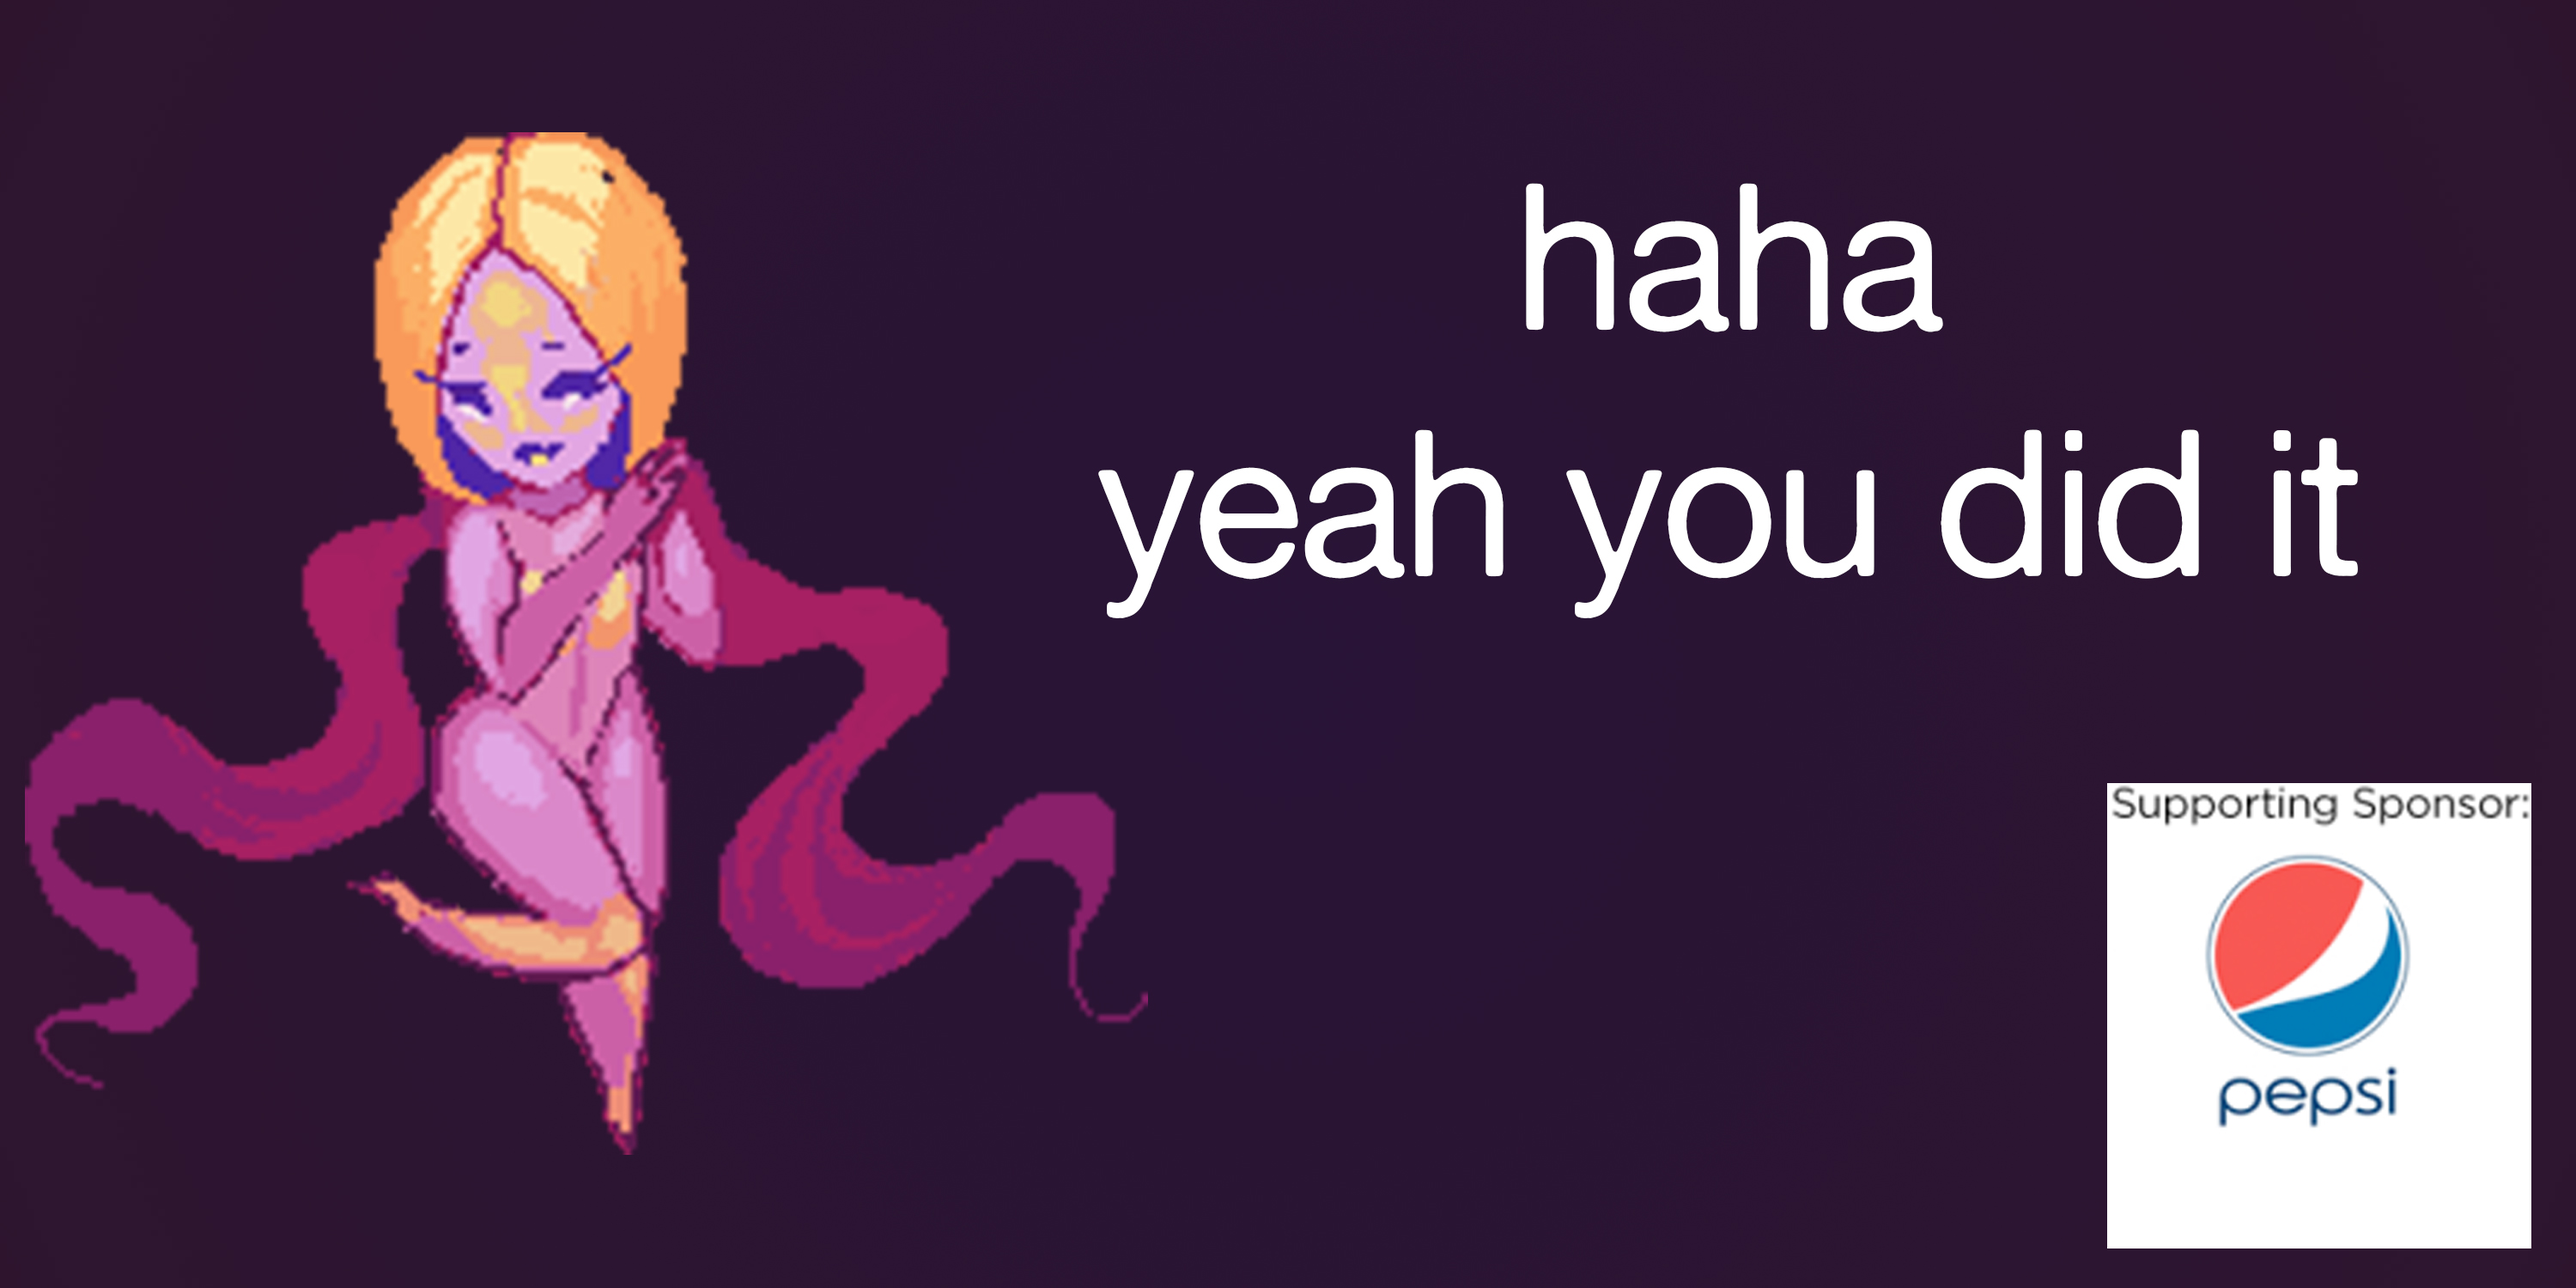
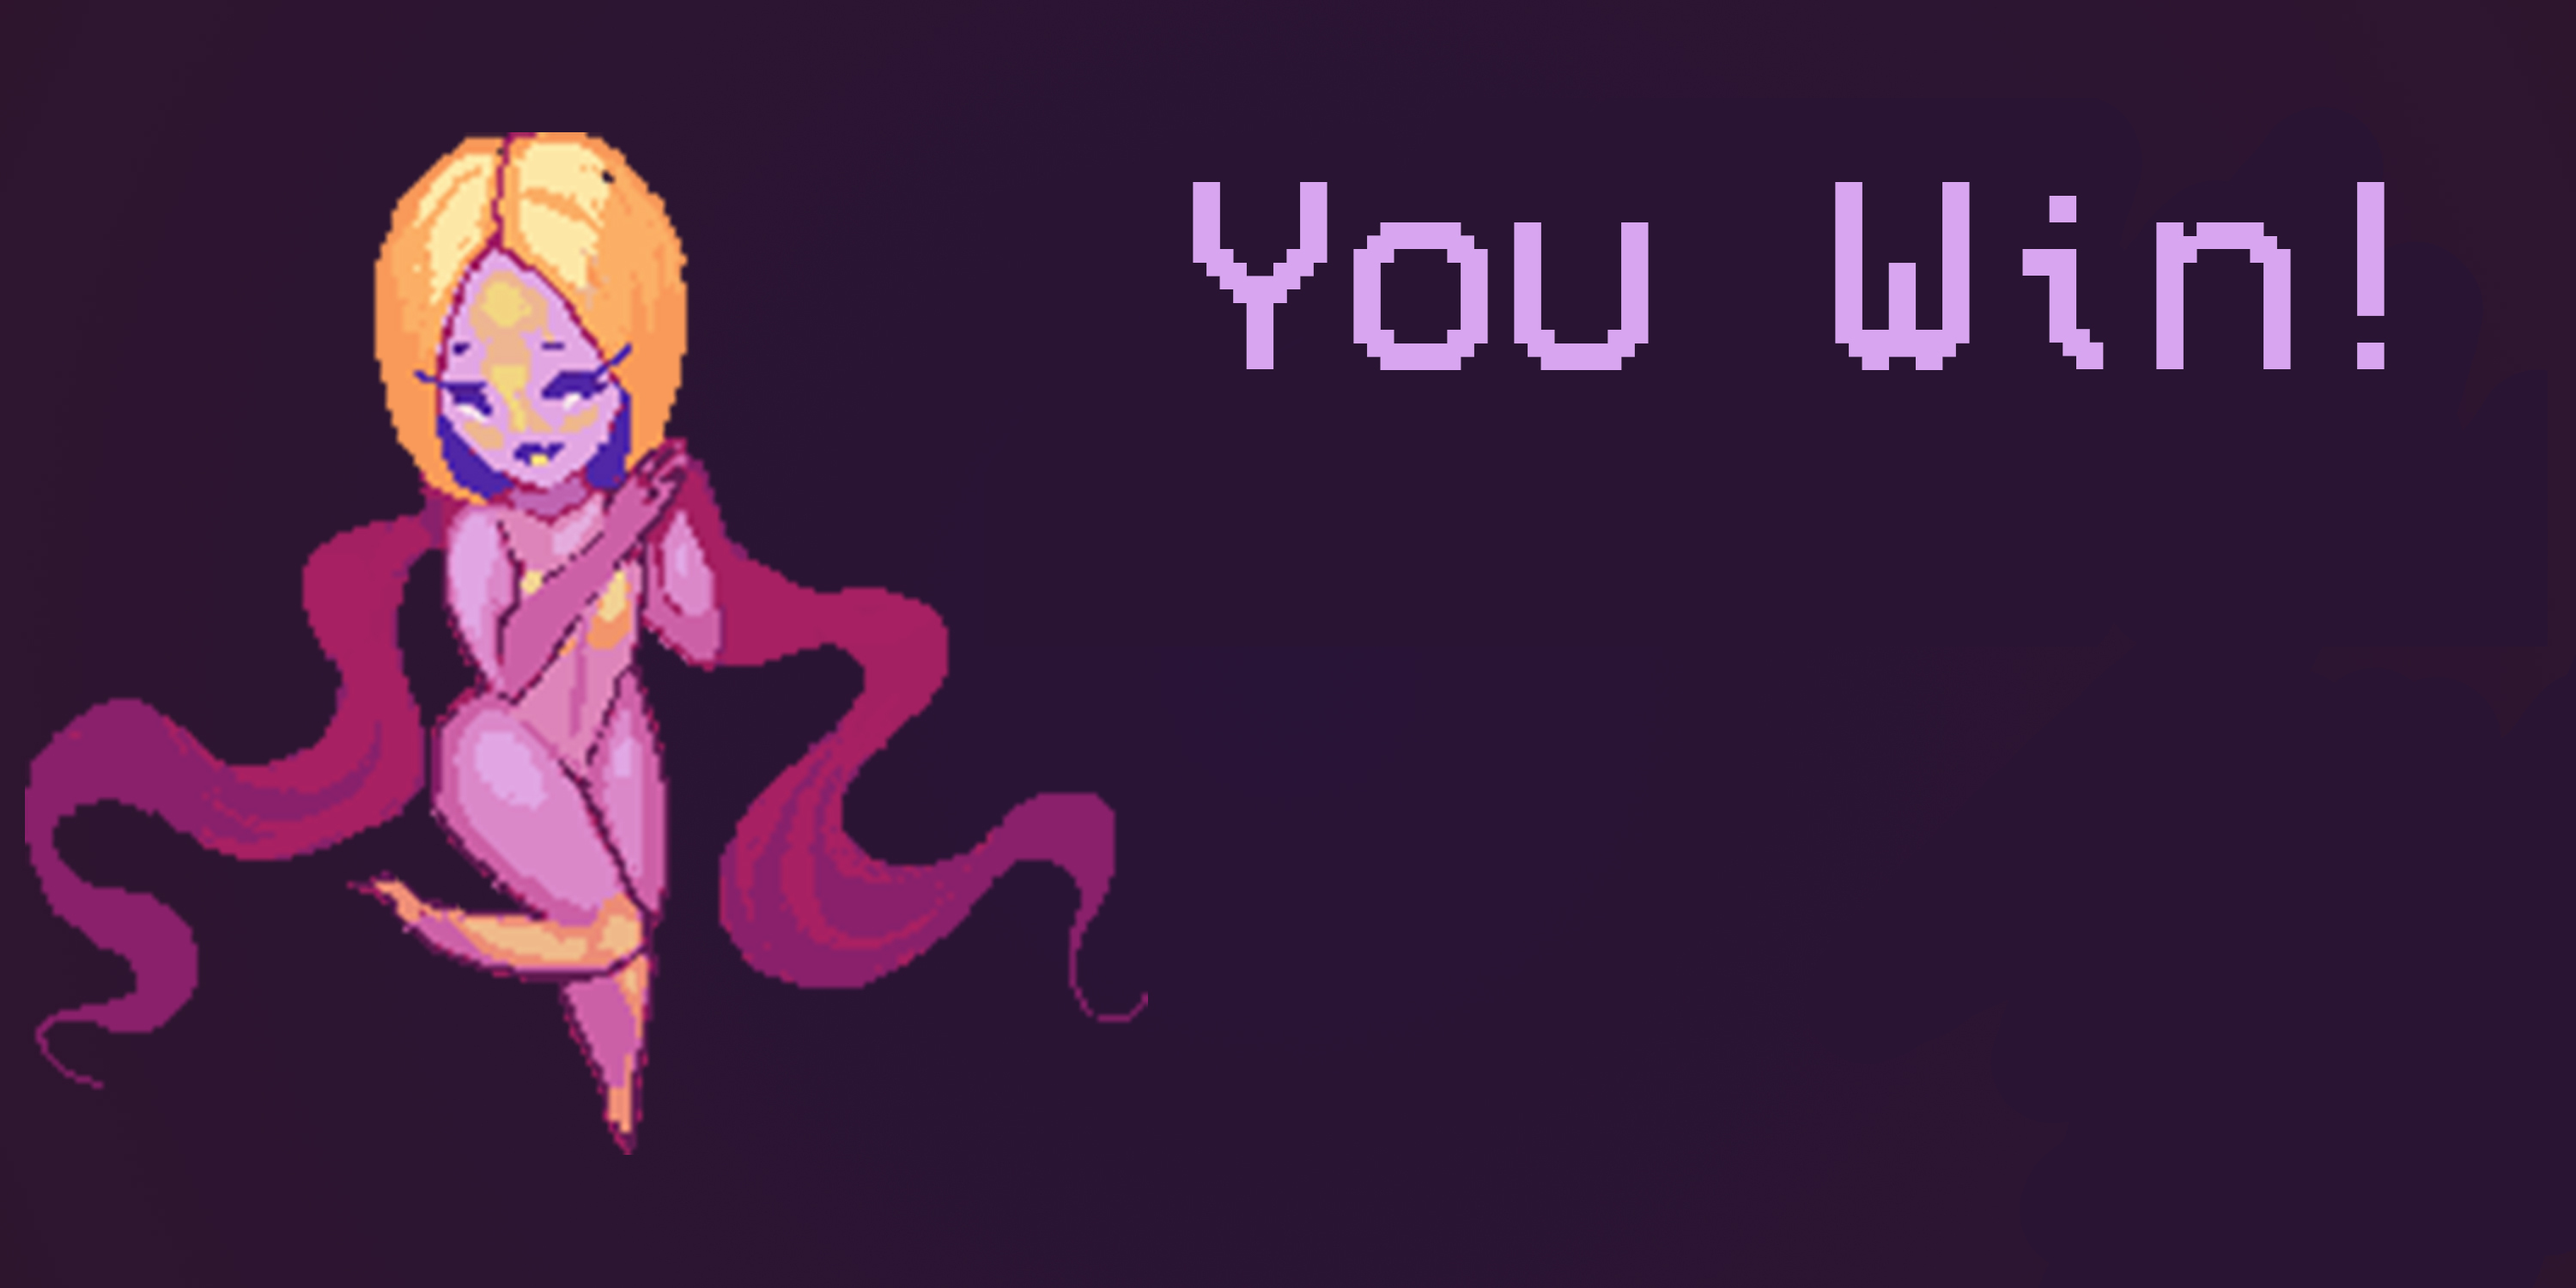
changed collin's screen

diff --git a/SourceFiles/core/src/com/fourmen/screens/WinScreen.java b/SourceFiles/core/src/com/fourmen/screens/WinScreen.java
@@ -10,14 +10,17 @@ import com.badlogic.gdx.graphics.OrthographicCamera;
 import com.badlogic.gdx.graphics.Texture;
 import com.badlogic.gdx.graphics.g2d.Sprite;
 import com.badlogic.gdx.graphics.g2d.SpriteBatch;
+import com.badlogic.gdx.graphics.g2d.TextureRegion;
 import com.badlogic.gdx.scenes.scene2d.InputEvent;
 import com.badlogic.gdx.scenes.scene2d.Stage;
 import com.badlogic.gdx.scenes.scene2d.ui.ImageButton;
 import com.badlogic.gdx.scenes.scene2d.ui.Skin;
 import com.badlogic.gdx.scenes.scene2d.ui.Table;
 import com.badlogic.gdx.scenes.scene2d.utils.ClickListener;
+import com.badlogic.gdx.scenes.scene2d.utils.TextureRegionDrawable;
 import com.badlogic.gdx.utils.viewport.ExtendViewport;
 import com.badlogic.gdx.utils.viewport.Viewport;
+import com.fourmen.utils.ResizableImage;
 import com.fourmen.utils.TextureFadeImage;
 
 public class WinScreen extends ScreenAdapter {
@@ -27,10 +30,13 @@ public class WinScreen extends ScreenAdapter {
     private Texture winScreenTexture;
     private OrthographicCamera camera;
     private SpriteBatch batch;
+    private Viewport viewport;
+    private Skin skin2;
+
     private float width = Gdx.graphics.getWidth();
     private float height = Gdx.graphics.getHeight();
-    private Viewport viewport;
-
+    private Table table;
+    private ResizableImage background;
     public WinScreen() {
 
     }
@@ -39,18 +45,45 @@ public class WinScreen extends ScreenAdapter {
         tweenManager = new TweenManager();
         timerToFade = 3.6f;
         winScreenTexture = new Texture(Gdx.files.internal("Images/winscreen.jpg"));
-
+        background = new ResizableImage(winScreenTexture,(int)width,
+                (int)height);
         batch = new SpriteBatch();
         camera = new OrthographicCamera();
         camera.position.set(width / 2, height / 2, 0);
         camera.update();
         viewport = new ExtendViewport(width, height, camera);
+        stage = new Stage(viewport,batch);
+        skin2 = new Skin(Gdx.files.internal("ui/ExitButton.json"));
+
+        table = new Table(skin2);
+        table.setBackground(new TextureRegionDrawable(new TextureRegion(winScreenTexture)));
+        table.setFillParent(true);
+        ImageButton exitButton = new ImageButton(skin2);
+        exitButton.setPosition((Gdx.graphics.getWidth()/2f) + 300, Gdx.graphics.getHeight() / 3f);
+
+
+
+        exitButton.addListener(new ClickListener()
+        {
+            public void clicked(InputEvent event, float x, float y) {
+                Gdx.app.exit();
+                event.stop();
+
+            }
+        });
+        stage.addActor(background);
+        stage.addActor(exitButton);
+        Gdx.input.setInputProcessor(stage);
     }
 
     public void render(float delta){
+        //Gdx.gl.glClearColor(0,0,0,1);
+        //Gdx.gl.glClear(GL20.GL_COLOR_BUFFER_BIT);
+        stage.act(delta);
+        stage.draw();
         batch.begin();
-        batch.draw(winScreenTexture,Gdx.graphics.getWidth() - width,
-                Gdx.graphics.getHeight() - height,width,height);
+        //batch.draw(winScreenTexture,Gdx.graphics.getWidth() - width,
+                //Gdx.graphics.getHeight() - height,width,height);
         batch.end();
     }
 }

diff --git a/SourceFiles/core/src/com/fourmen/screens/Splash.java b/SourceFiles/core/src/com/fourmen/screens/Splash.java
@@ -29,7 +29,7 @@ public class Splash implements Screen {
 
     @Override
     public void show() {
-        splashTexture = new Texture("images/Logo.jpg");
+        splashTexture = new Texture("Images/Logo.jpg");
         splash = new Sprite(splashTexture);
 
         music = Gdx.audio.newMusic(Gdx.files.internal("Music/LaurenPiano.mp3"));
